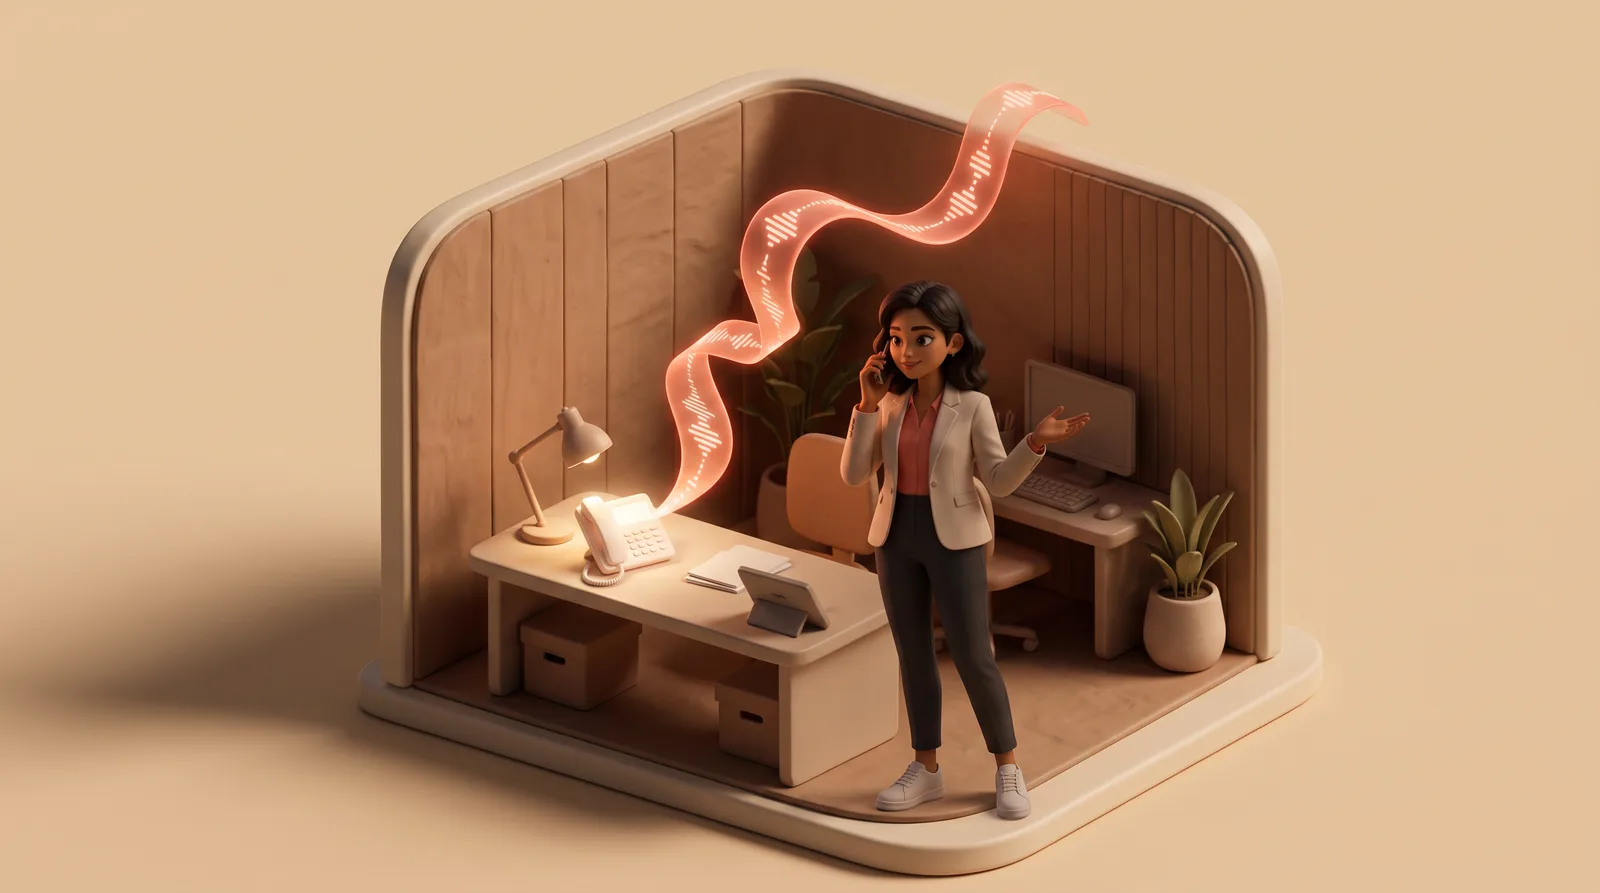
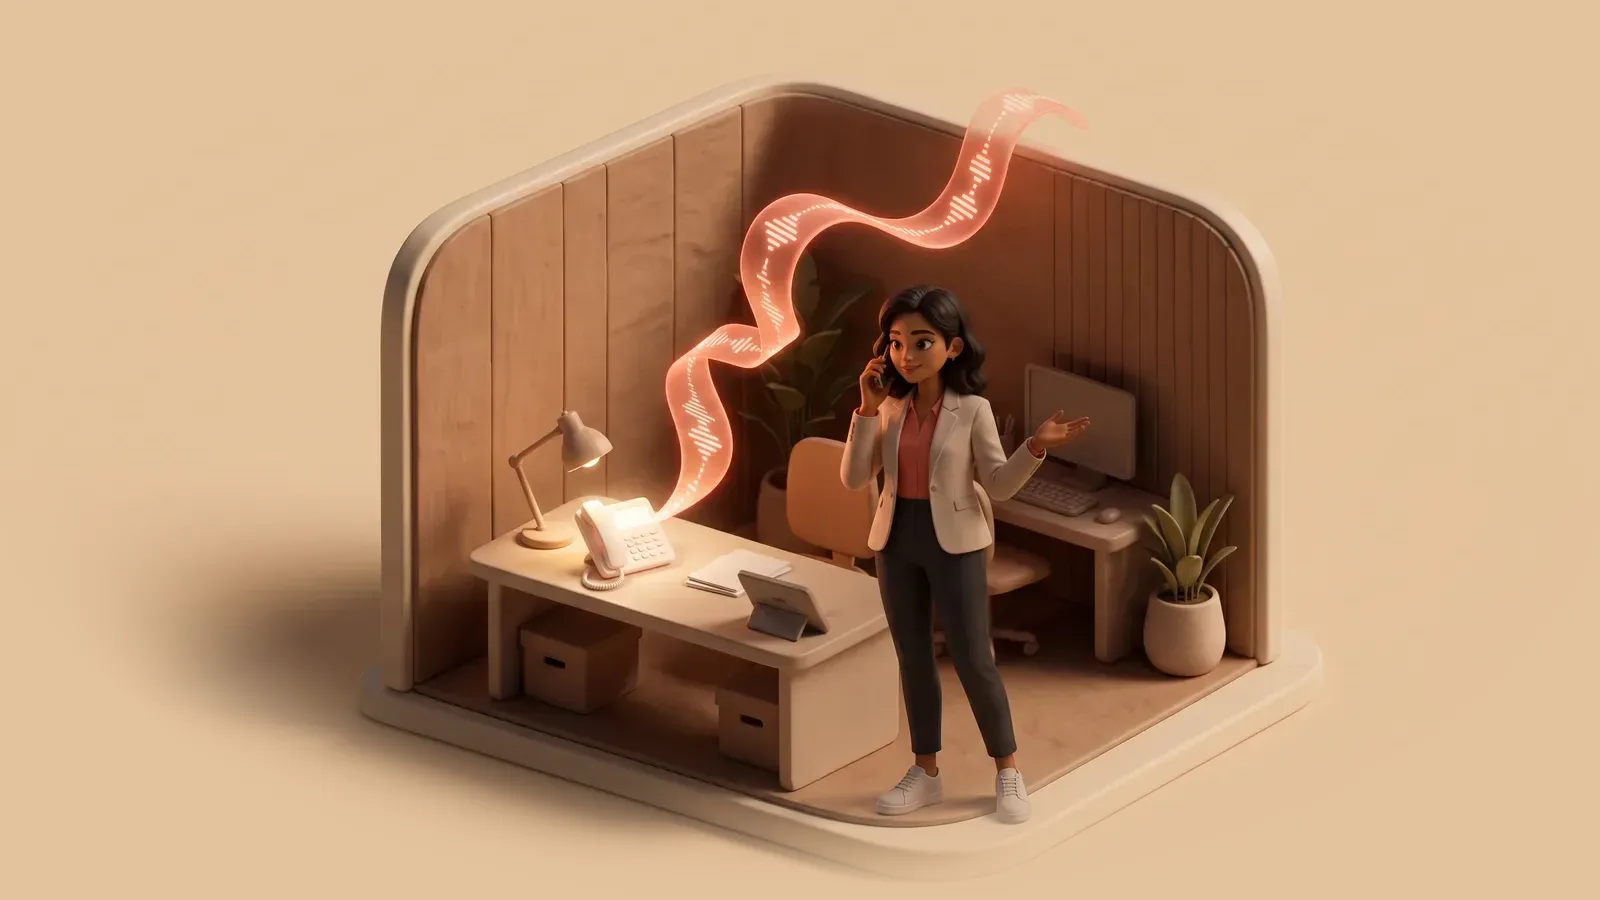
Flatten the plate backdrops, which were never flat
You were right that the plates still show as boxes, and the reason is that the
premise the blending was built on is false. story.module.css says "the plates
carry their own flat backdrop", so each chapter sets --ground to one hex and the
plate is supposed to disappear into it. Measured across the corners of every
plate, none of them is flat: the clinic runs #f5ddbe to #e3c9a9, an eighteen
point spread, and room 01, room 05 and the world plate all carry their own
studio sweep too. No single ground value can match a gradient, so a rectangle
was always going to show — and on the two I had composited myself, commerce and
the call floor, it did not, which is the tell I missed.

So the plates are flattened rather than the ground re-tuned. Each is composited
onto a flat field of its own median border colour behind an elliptical alpha
falloff, so the edges dissolve into that field instead of ending. The subject is
untouched — the fade starts at 0.72 of the radius, well outside the diorama —
and every chapter's --ground is re-sampled from the delivered WebP, because the
encoder shifts a flat field by a point or two and against cream that is visible.

Measured after: sampling the far left, far right and top of every chapter at
1366px returns one uniform colour for all six. Before, the clinic showed its
plate as a lighter rectangle on a darker ground.

Two more things you flagged in the same screenshots.

The empty band under "One agent. Many worlds." was in the image file, not the
[…]

diff --git a/components/story/ScrollStory.tsx b/components/story/ScrollStory.tsx
@@ -2,12 +2,14 @@
 
 import Link from 'next/link';
 import { useCallback, useEffect, useMemo, useRef, useState } from 'react';
+
+import { type StoryNeed, storyActTotal } from './acts';
 import type { CSSProperties } from 'react';
 import { IsoDistrict } from './IsoDistrict';
 import { SplitText } from './SplitText';
 import styles from './story.module.css';
 
-export type StoryNeed = { id: string; label: string; pain: string; href: string };
+export type { StoryNeed } from './acts';
 
 type Props = {
   needs: StoryNeed[];
@@ -83,6 +85,16 @@ export function ScrollStory({ needs, call }: Props) {
   const [artFailed, setArtFailed] = useState<Record<string, true>>({});
 
   const chapters = useMemo(() => buildChapters(needs, call), [needs, call]);
+
+  /* The intro renders "01 / N" from `storyActTotal` before this component
+     mounts, so a chapter added here without updating that file would leave the
+     two counters disagreeing on screen. Cheap to check, and silent in
+     production. */
+  if (process.env.NODE_ENV !== 'production' && chapters.length + 1 !== storyActTotal(needs)) {
+    console.warn(
+      `[ScrollStory] act count drift: built ${chapters.length + 1} acts, storyActTotal says ${storyActTotal(needs)}. Update components/story/acts.ts.`,
+    );
+  }
   const acts = chapters.length;
   const hasNarration = chapters.some((chapter) => Boolean(chapter.audio));
 
@@ -438,8 +450,8 @@ function ClinicMotion() {
 }
 
 const VERTICAL_PLATE: Record<string, { src: string; blend: 'strong' | 'soft'; ground: string }> = {
-  clinics: { src: '/media/story/decibyl-room-02-the-clinic.webp', blend: 'soft', ground: '#eed6b6' },
-  'real-estate': { src: '/media/story/decibyl-room-03-property-leads.webp', blend: 'soft', ground: '#f1cfac' },
+  clinics: { src: '/media/story/decibyl-room-02-the-clinic.webp', blend: 'soft', ground: '#edd7b5' },
+  'real-estate': { src: '/media/story/decibyl-room-03-property-leads.webp', blend: 'soft', ground: '#f0cfad' },
   'd2c-ndr-recovery': { src: '/media/story/decibyl-room-04-commerce-support.webp', blend: 'soft', ground: '#fcdabc' },
 };
 
@@ -506,7 +518,7 @@ function buildChapters(
       chips: ['Answers on ring one', 'Books and confirms', 'Calls back too'],
       art: '/media/story/decibyl-room-01-the-answer.webp',
       blend: 'soft',
-      ground: '#e3c29c',
+      ground: '#e3c39e',
       drawn: 'switchboard',
       href: '/how-it-works',
       linkLabel: 'How it works',
@@ -536,7 +548,7 @@ function buildChapters(
       chips: [call.outcome, '100% QA-scored', 'Credits, not minutes'],
       art: '/media/story/decibyl-room-05-call-receipt.webp',
       blend: 'soft',
-      ground: '#ead1b2',
+      ground: '#ead1b3',
       drawn: 'outcome',
       href: '/book-a-demo',
       linkLabel: 'Book a demo call',

diff --git a/components/story/acts.ts b/components/story/acts.ts
@@ -1,0 +1,28 @@
+/**
+ * How many acts the reader is told the story has, the intro included.
+ *
+ * `CinematicIntro` numbers itself "01 / N" and `ScrollStory`'s chapters
+ * continue that sequence, so the two have to agree. They did not: the intro
+ * had "06" hard-coded while the chapters counted to 07 as soon as the call
+ * floor was added. The comment on `storyVerticalSlugs` in app/page.tsx
+ * promises that nothing is hard-coded to a count, and this file is what makes
+ * that promise true.
+ *
+ * It lives here rather than in ScrollStory because that module is `'use
+ * client'`, and the page is a server component — a server render cannot call
+ * into a client module, so the shared number has to sit outside both.
+ *
+ * The arithmetic: the clinic, the switchboard, the verticals that are not the
+ * clinic, the call floor and the receipt, then the intro in front of them.
+ * ScrollStory checks this against the chapters it actually built and warns in
+ * development if they disagree, so adding a chapter without updating this is
+ * noisy rather than silent.
+ */
+export type StoryNeed = { id: string; label: string; pain: string; href: string };
+
+const FIXED_CHAPTERS = 3; // switchboard, call floor, receipt
+const INTRO = 1;
+
+export function storyActTotal(needs: StoryNeed[]): number {
+  return needs.length + FIXED_CHAPTERS + INTRO;
+}

diff --git a/components/story/CinematicIntro.tsx b/components/story/CinematicIntro.tsx
@@ -13,7 +13,7 @@ const clamp = (value: number, min: number, max: number) =>
  * meets Decibyl first, then the camera dissolves into the first problem scene.
  * Scroll writes one CSS variable; all visual movement remains compositor-only.
  */
-export function CinematicIntro() {
+export function CinematicIntro({ total }: { total: number }) {
   const sectionRef = useRef<HTMLElement>(null);
   const stageRef = useRef<HTMLDivElement>(null);
 
@@ -68,7 +68,7 @@ export function CinematicIntro() {
         <div className={styles.copyScrim} aria-hidden="true" />
 
         <div className={styles.copy}>
-          <p className={styles.eyebrow}>01 / 06 · Meet Decibyl</p>
+          <p className={styles.eyebrow}>01 / {String(total).padStart(2, '0')} · Meet Decibyl</p>
           <h1>Your AI voice agent.</h1>
           <p className={styles.lead}>
             Answers customer calls, qualifies leads and books appointments—in the language

diff --git a/app/globals.css b/app/globals.css
@@ -306,8 +306,7 @@ html[data-story-hero='true'] header.glass {
 
 .living-world-stage {
   position: relative;
-  min-height: 30rem;
-  margin: clamp(2.5rem, 5vw, 5rem) -5vw 0;
+  margin: clamp(1.25rem, 2.5vw, 2.25rem) -5vw 0;
 }
 
 .living-world-image {
@@ -317,7 +316,8 @@ html[data-story-hero='true'] header.glass {
   margin-left: -5%;
   filter: saturate(0.94) contrast(1.015);
   mix-blend-mode: multiply;
-  mask-image: radial-gradient(ellipse 84% 80% at 50% 50%, #000 55%, transparent 98%);
+  mask-image: radial-gradient(ellipse 94% 96% at 50% 50%, #000 76%, transparent 100%);
+  -webkit-mask-image: radial-gradient(ellipse 94% 96% at 50% 50%, #000 76%, transparent 100%);
 }
 
 .living-world-stat {
@@ -595,7 +595,6 @@ html[data-story-hero='true'] header.glass {
   }
 
   .living-world-stage {
-    min-height: 24rem;
     margin-inline: -20%;
   }
 

diff --git a/app/page.tsx b/app/page.tsx
@@ -2,6 +2,7 @@ import type { Metadata } from 'next';
 import { Container, Section, SectionHead } from '@/components/ui/Section';
 import { CinematicIntro } from '@/components/story/CinematicIntro';
 import { ScrollStory } from '@/components/story/ScrollStory';
+import { storyActTotal } from '@/components/story/acts';
 import { LiveTranscript } from '@/components/marketing/LiveTranscript';
 import { SlideDeck, type DeckItem } from '@/components/marketing/SlideDeck';
 import { LossCalculator } from '@/components/marketing/LossCalculator';
@@ -99,7 +100,7 @@ export default function HomePage() {
 
   return (
     <>
-      <CinematicIntro />
+      <CinematicIntro total={storyActTotal(storyNeeds)} />
       <ScrollStory
         needs={storyNeeds}
         call={{

diff --git a/components/marketing/LivingProofWorld.tsx b/components/marketing/LivingProofWorld.tsx
@@ -75,8 +75,8 @@ export function LivingProofWorld() {
           <Image
             src="/media/home/living-operations-world.webp"
             alt="Connected miniature scenes of a clinic reception, property sales office, and commerce support team"
-            width={1728}
-            height={909}
+            width={1600}
+            height={618}
             sizes="(max-width: 768px) 150vw, 1200px"
             className="living-world-image"
             priority
